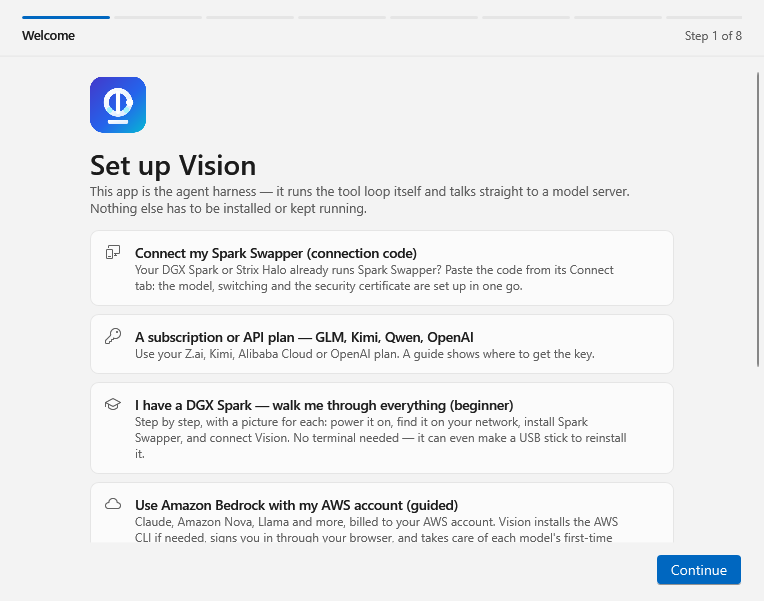
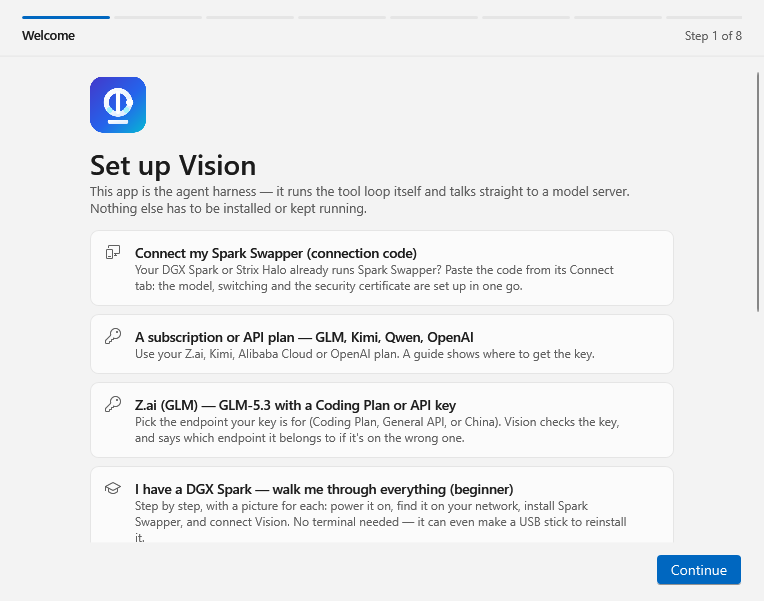
README: new screenshots from CI's self-test, and the test counts
Seventeen pictures from the integration branch's self-test run (0.9.157): a goal at work with its turn card
and the task list's Now card (the new hero), a finished turn with its evidence, code mode with the chat as the
main view, Prompts, Background activity, attachments, the chat's model menu, Guardian and one of its
refusals, the glow, Import & Export, a Z.ai key on the wrong endpoint, and fresh copies of the wizard, AI
Models, Model servers, the vault and the Bedrock guide. 1.4 MB in assets/screenshots. The build section
says how many tests each suite has.

Changed region(s): [[0.1204, 0.8087, 0.8128, 0.8985], [0.1204, 0.6589, 0.8128, 0.7488]]

diff --git a/README.md b/README.md
@@ -12,8 +12,8 @@
 </p>
 
 <p align="center">
-  <img src="assets/screenshots/agent-at-work-dark.png" width="920"
-       alt="Vision working through a task: its plan beside the chat with three of four steps done, the tests running, and a review subagent working on a second model server" />
+  <img src="assets/screenshots/turn-and-tasks-dark.png" width="920"
+       alt="Vision working through a goal: the turn card in Execution with its runtime against the estimate, the task list's Now card with each step's subagent and model, and two prompts queued behind it" />
 </p>
 
 ---
@@ -33,12 +33,20 @@ you → Vision.Core.Engine → OpenAI-compatible /chat/completions → tool call
 
 | | |
 |---|---|
-| ![The finished task: what changed, the checks it ran and the files it touched](assets/screenshots/task-done-light.png) | ![Code mode: the project's files, an editor and a PowerShell terminal beside the chat](assets/screenshots/code-mode-dark.png) |
-| The finished task: what changed, the checks it ran, the files it touched | Code mode: files, editor and a terminal beside the chat |
-| ![The setup wizard's first page](assets/screenshots/setup-wizard-light.png) | ![Settings, AI Models: a DGX Spark as the private primary and Amazon Bedrock](assets/screenshots/ai-models-dark.png) |
-| Setting up: a Spark Swapper code, a subscription plan, a DGX Spark from scratch, or Bedrock | AI Models: primary, subagents, backups and private routes |
-| ![Settings, Model servers: a DGX Spark serving one model while it installs another](assets/screenshots/model-servers-light.png) | ![A chat's task list beside the chat: done, waiting on you, and queued tasks](assets/screenshots/task-list-light.png) |
-| Model servers: what each Spark Swapper box serves and can install | Task lists: work queued for a chat, done one by one |
+| ![The finished turn: Completed with results, how long it took against the estimate, and the evidence](assets/screenshots/turn-results-light.png) | ![Code mode with the chat as the main view: the project's status bar and the Files, Editor, Terminal and Chat only switches](assets/screenshots/code-mode-dark.png) |
+| A finished turn: how it ended, how long against the estimate, the evidence | Code mode: the chat is the main view; files, editor and terminal switch on and off |
+| ![Prompts: every prompt the chat sent, how each ended, and one selected with its evidence](assets/screenshots/prompts-light.png) | ![Background activity: each agent and subagent, what it was given and the model it runs on](assets/screenshots/background-activity-light.png) |
+| Prompts: every prompt sent, and what came of it | Background activity: who is working on what, on which model |
+| ![Attachments read by Vision: a PDF, Markdown, a Word file, a scan and a 10,214-line paste, each saying how it is sent](assets/screenshots/attachments-dark.png) | ![The chat's model menu: this chat's model, the primary, and Make this the primary](assets/screenshots/model-menu-dark.png) |
+| Attachments: read by Vision, each chip says how it goes to the model | Each chat has its own model |
+| ![Settings, Guardian: signed in, the organization, limits and Guardian's models](assets/screenshots/guardian-light.png) | ![Guardian's refusal as a dialog: what is missing and who can turn it on](assets/screenshots/guardian-refusal-dark.png) |
+| Guardian: one sign-in for models, limits, prompts, skills and chats | When Guardian says no, Vision says why |
+| ![The machine-in-use glow around the screen and its label: which chat has the mouse, one waiting, Ctrl+Alt+. stops](assets/screenshots/machine-glow-dark.png) | ![Settings, Import & Export: OpenClaw on this PC in and out](assets/screenshots/import-export-light.png) |
+| Computer use: the glow, and one real mouse shared in turn | Import & Export with OpenClaw on this PC |
+| ![Checking a Z.ai key: it is a GLM Coding Plan key on the wrong endpoint, with Switch to Coding Plan](assets/screenshots/zai-check-light.png) | ![The setup wizard's first page](assets/screenshots/setup-wizard-light.png) |
+| Z.ai (GLM): a key on the wrong endpoint is found and switched | Setting up: a Spark Swapper code, a plan, Z.ai, a DGX Spark from scratch, Bedrock or Guardian |
+| ![Settings, AI Models: a DGX Spark as the private primary and Amazon Bedrock](assets/screenshots/ai-models-dark.png) | ![Settings, Model servers: a DGX Spark serving one model while it installs another](assets/screenshots/model-servers-light.png) |
+| AI Models: primary, subagents, backups and private routes | Model servers: what each Spark Swapper box serves and can install |
 | ![The credentials vault](assets/screenshots/credentials-vault-dark.png) | ![The Amazon Bedrock guide's first page](assets/screenshots/bedrock-guide-light.png) |
 | The credentials vault: the agent writes `{{vault:NAME}}` and never sees the value | The Amazon Bedrock guide: sign-in, model access and terms, step by step |
 
@@ -759,6 +767,9 @@ To produce the release files locally (installers need [Inno Setup](https://jrsof
 ./scripts/package.ps1                          # x64 + arm64: installers, portable zips, SHA256SUMS
 ./scripts/package.ps1 -Arch x64 -SkipInstaller # just a portable x64 build
 ```
+
+`dotnet test tests/Vision.Core.Tests` runs the core tests anywhere (3,417 on Linux, 25 of them Windows-only and
+skipped there; 3,411 on Windows, 48 skipped). The app tests (140) and the computer-use tests (116) need Windows.
 
 `Vision.exe --self-test <folder> [--theme light|dark]` renders every main view and window to PNGs using
 a throwaway data folder and a demo project, and exits non-zero on any error. CI runs it on Windows.
